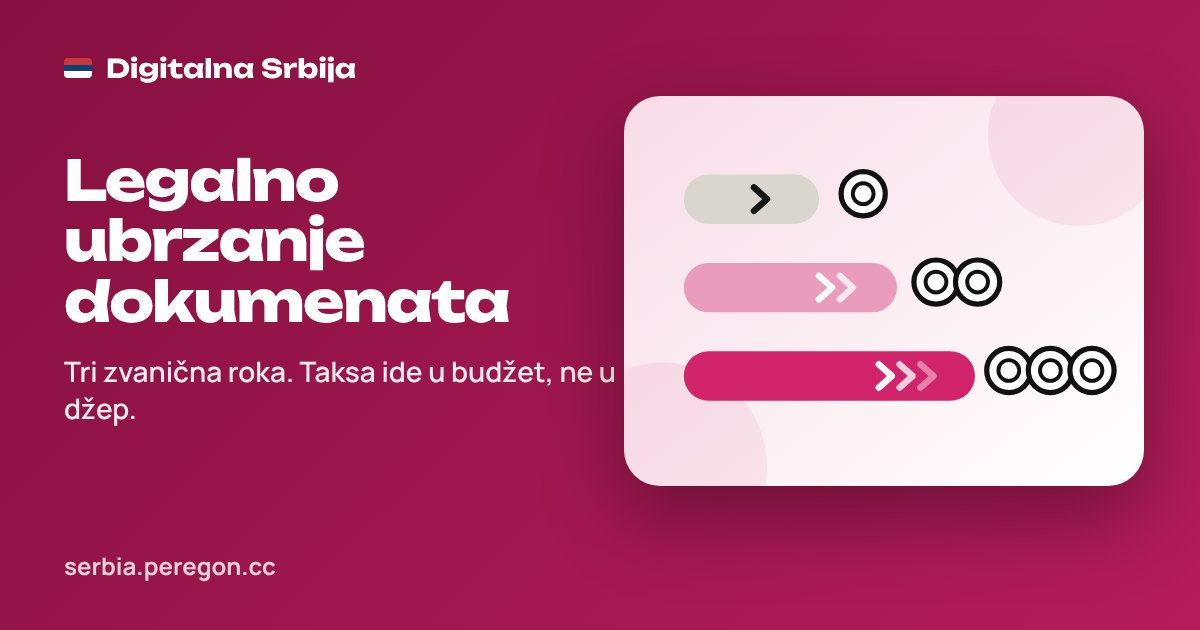
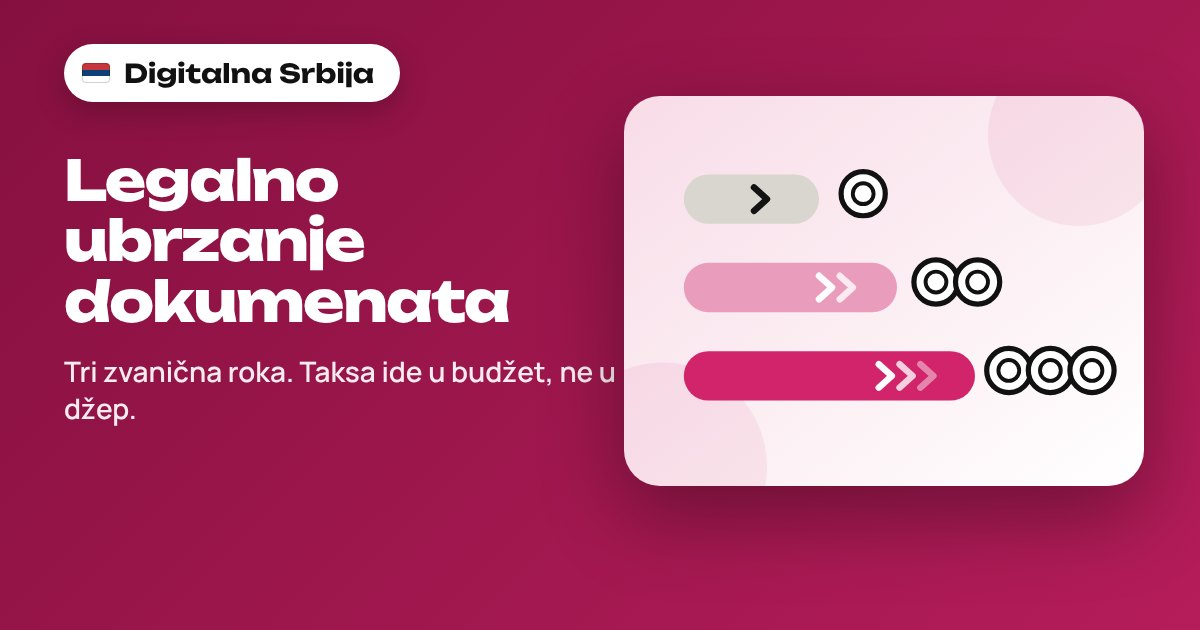
Link previews: white pill behind the site name, no duplicate URL
Claude-Session: https://claude.ai/code/session_018UhU7MDj9wiiUCqv237F8L

Changed region(s): [[0.0308, 0.0603, 0.3392, 0.181], [0.0617, 0.8746, 0.2467, 0.9349]]

diff --git a/tools/og.py b/tools/og.py
@@ -22,12 +22,11 @@ OUT = ROOT / "assets" / "og"
 CSS = """
 *{box-sizing:border-box;margin:0;padding:0}html,body{width:1200px;height:630px;overflow:hidden}
 body{font-family:'Manrope',system-ui,sans-serif;color:#fff;position:relative}
-.top{position:absolute;left:64px;top:52px;display:flex;align-items:center;gap:14px;font-family:'Unbounded',sans-serif;font-weight:700;font-size:26px}
-.top i{display:block;width:28px;height:20px;border-radius:4px;background:linear-gradient(#C6363C 0 33.3%,#0C4076 33.3% 66.6%,#fff 66.6%)}
+.top{position:absolute;left:64px;top:44px;display:flex;align-items:center;gap:14px;padding:13px 26px 13px 18px;border-radius:999px;background:#fff;color:#111;box-shadow:0 10px 30px rgba(0,0,0,.22);font-family:'Unbounded',sans-serif;font-weight:700;font-size:26px}
+.top i{display:block;width:28px;height:20px;border-radius:4px;box-shadow:inset 0 0 0 1px rgba(0,0,0,.18);background:linear-gradient(#C6363C 0 33.3%,#0C4076 33.3% 66.6%,#fff 66.6%)}
 .txt{position:absolute;left:64px;top:150px;width:560px}
 h1{font-family:'Unbounded',sans-serif;font-weight:800;letter-spacing:-.03em;line-height:1.08}
 p{font-size:28px;font-weight:600;line-height:1.3;margin-top:22px;opacity:.92}
-.url{position:absolute;left:64px;bottom:48px;font-size:24px;font-weight:700;opacity:.8}
 .art{position:absolute;right:56px;top:96px;width:520px;height:390px;border-radius:36px;overflow:hidden;box-shadow:0 30px 80px rgba(0,0,0,.35)}
 .art img{width:100%;height:100%;display:block}
 .three{position:absolute;right:48px;top:80px;width:540px;height:470px}
@@ -41,7 +40,7 @@ def page(bg, title, tag, size, art_html):
             f'family=Unbounded:wght@700;800&display=swap" rel="stylesheet"><style>{CSS}</style></head><body style="background:{bg}">'
             f'<div class="top"><i></i>Digitalna Srbija</div>'
             f'<div class="txt"><h1 style="font-size:{size}px">{html.escape(title)}</h1><p>{html.escape(tag)}</p></div>'
-            f'{art_html}<div class="url">serbia.peregon.cc</div></body></html>')
+            f'{art_html}</body></html>')
 
 
 def main():
